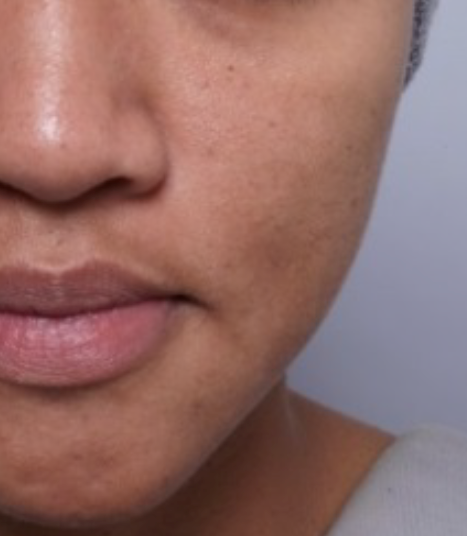
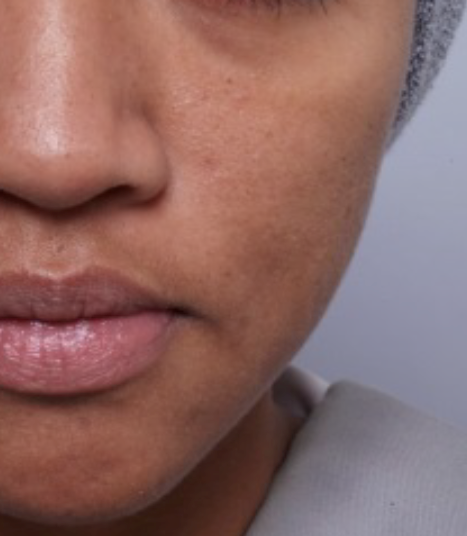
効果画像トリミング変更、スライダーのボタン変更

diff --git a/Share Beauty App/Views/UTMViews/UtmEfficacyView.m b/Share Beauty App/Views/UTMViews/UtmEfficacyView.m
@@ -788,10 +788,10 @@
                                        lineHeight:0 red:NO bold:NO];
         float x = 98 + titleLabel.width + 30;
         // 説明文
-        NSString *str = @"塗布直後に、色むらが解消され肌の明るさとつやを感じられる";
+        NSString *str = @"The skin’s  appearance of dullness improved for a brighter, more glowing look.";
         [self showUtmLabelText:[NSString stringWithFormat:@"%@",str]
                          frame:CGRectMake( x, 29, 800, 25)
-                      fontSize:23
+                      fontSize:18
                       tracking:0
                     lineHeight:0 red:NO bold:NO];
         
@@ -866,10 +866,10 @@
                                        lineHeight:0 red:NO bold:NO];
         float x = 98 + titleLabel.width + 30;
         // 説明文
-        NSString *str = @"塗布直後に、色むらが解消され肌の明るさとつやを感じられる";
+        NSString *str = @"The skin’s  appearance of dullness improved for a brighter, more glowing look.";
         [self showUtmLabelText:[NSString stringWithFormat:@"%@",str]
                          frame:CGRectMake( x, 29, 800, 25)
-                      fontSize:23
+                      fontSize:18
                       tracking:0
                     lineHeight:0 red:NO bold:NO];
         
@@ -899,7 +899,7 @@
         
         //Slider Left
         UISlider * slider_left = [[UISlider alloc]initWithFrame:CGRectMake(105, 420, 359,30)];
-        [slider_left setThumbImage: [UIImage imageNamed:@"efficacy_slider_circle_MoisturizingCream"] forState:UIControlStateNormal];
+        [slider_left setThumbImage: [UIImage imageNamed:@"efficacy_slider_circle_Emulsion"] forState:UIControlStateNormal];
         [slider_left setMinimumTrackImage:imgMinimum forState:UIControlStateNormal];
         [slider_left setMaximumTrackImage:imgMaximum forState:UIControlStateNormal];
         slider_left.tag = 1;
@@ -908,7 +908,7 @@
         
         //Slider Right
         UISlider * slider_right = [[UISlider alloc]initWithFrame:CGRectMake(557, 420, 359, 30)];
-        [slider_right setThumbImage: [UIImage imageNamed:@"efficacy_slider_circle_MoisturizingCream"] forState:UIControlStateNormal];
+        [slider_right setThumbImage: [UIImage imageNamed:@"efficacy_slider_circle_Emulsion"] forState:UIControlStateNormal];
         [slider_right setMinimumTrackImage:imgMinimum forState:UIControlStateNormal];
         [slider_right setMaximumTrackImage:imgMaximum forState:UIControlStateNormal];
         slider_right.tag = 2;
